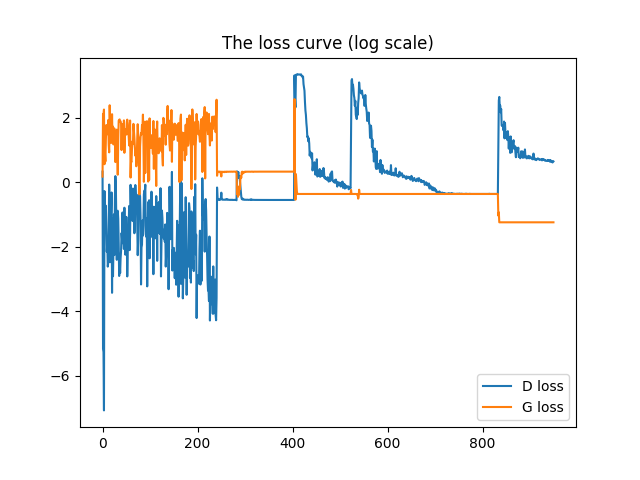
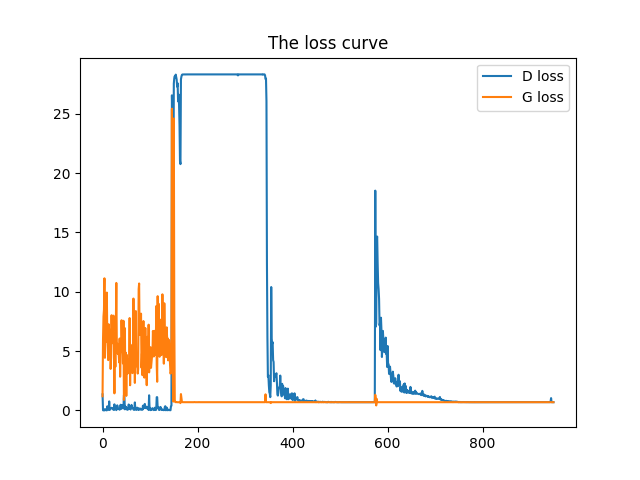
update loss curve without log scale

diff --git a/readme.md b/readme.md
@@ -37,10 +37,6 @@ Next, we shows the result of GAN while using the relativistic idea. As you can s
 ![](https://github.com/SunnerLi/RelativisticGAN_Demo/blob/master/image/render_result/RSGAN_result_50_epoch.gif)
 ![](https://github.com/SunnerLi/RelativisticGAN_Demo/blob/master/image/loss_curve/RSGAN_loss_curve_50_epoch.png)
 
-TODO
----
-- [ ] Provide the loss curve without taking log
-
 Reference
 ---
 [1]  Alexia Jolicoeur-Martineau, "The relativistic discriminator: a key element missing from standard GAN," arXiv: 1807.00734 [cs.LG], July 2018.
